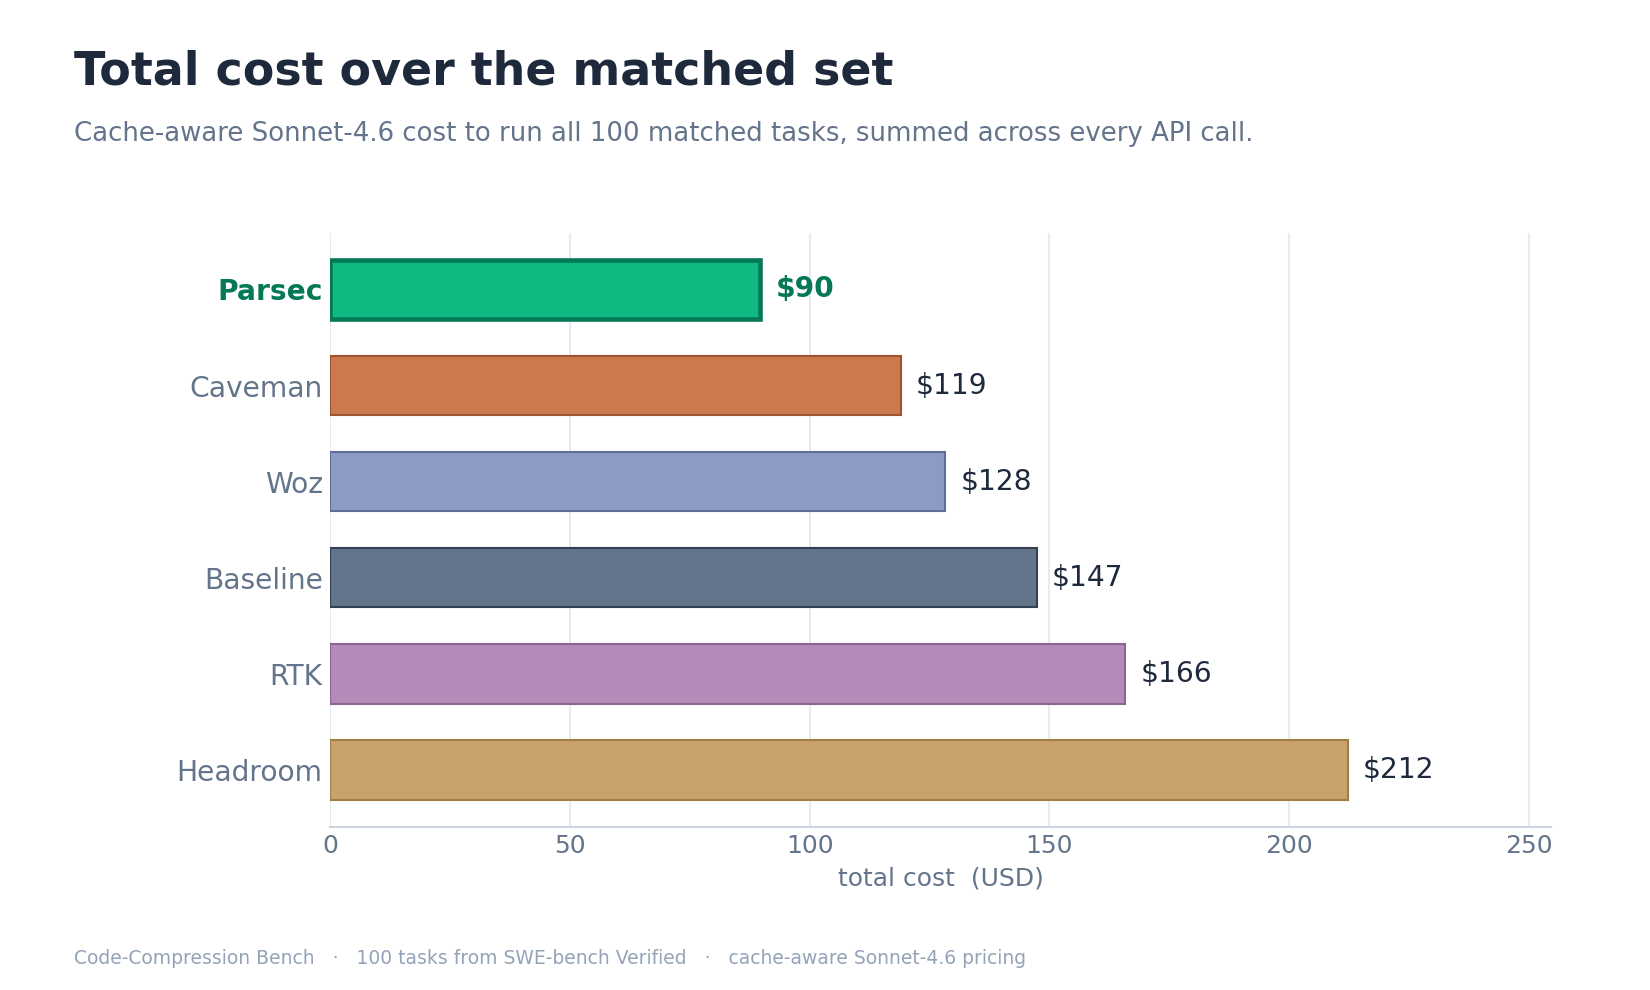
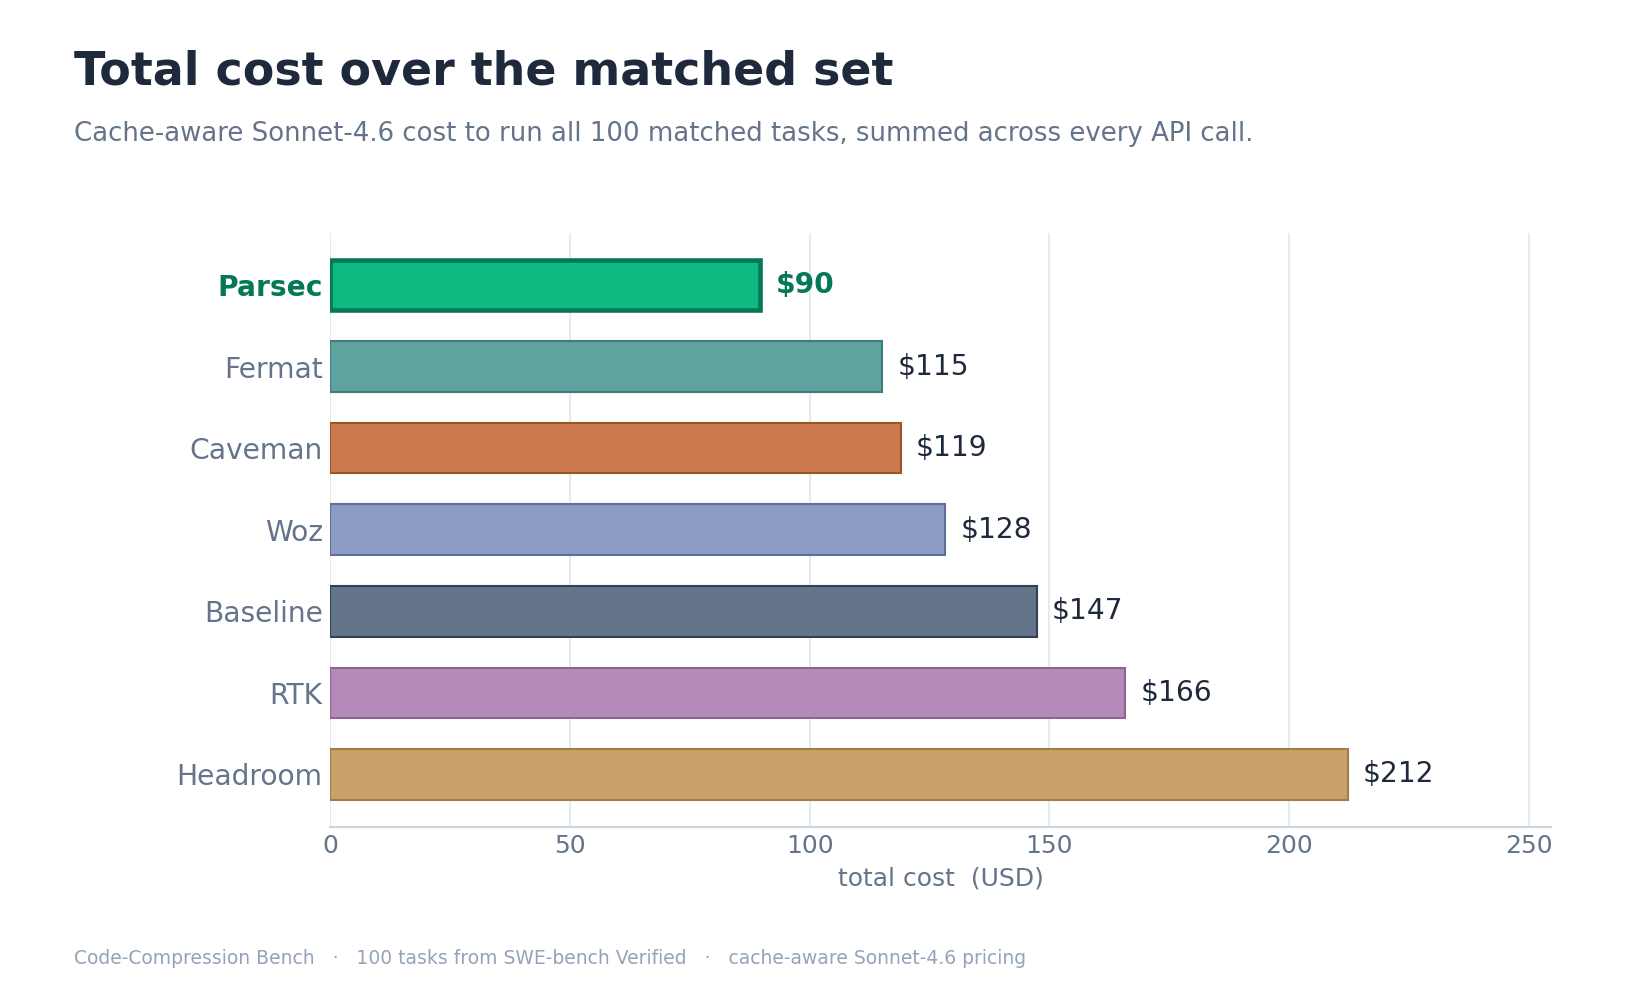
Add Fermat to figure/dashboard generators and regenerate all outputs
Add fermat to build_figures.py (COL/EDGE/LABEL + per-figure arm lists) and
build_dashboard.py (STYLE + arm tuples + FVF mechanism note). Regenerate all 11
PNGs and dashboard.html from summary_rich.json; every figure now shows 7 arms.

Changed region(s): [[0.1236, 0.2727, 0.8655, 0.7879], [0.4636, 0.2727, 0.5255, 0.303], [0.1236, 0.7576, 0.1855, 0.7879]]

diff --git a/results/2026-07-04/dashboard.html b/results/2026-07-04/dashboard.html
@@ -142,6 +142,7 @@
       <tr><td>RTK</td><td class="claim">"60–90% fewer tokens on common dev commands"</td><td class="obs">+13% cost, +16% input, 54/100 solved; its hook rewrites only shell output — native Read/Grep/Glob bypass it</td></tr>
       <tr><td>Headroom</td><td class="claim">"60–95% fewer tokens, same answers"; "better caching"</td><td class="obs">+44% cost, +6% input, 58/100 solved; its docs: "code passes through" uncompressed</td></tr>
       <tr><td>Caveman</td><td class="claim">"Cuts 65% of output tokens (measured)"; "full technical accuracy"</td><td class="obs">−19% cost, −19% input, 58/100 solved; the 65% is output-only — a small share of agentic-loop cost</td></tr>
+      <tr><td>Fermat</td><td class="claim">MCP Search/Edit facades over the codebase (Quotient Labs, “Fermat’s Last Token”)</td><td class="obs">−22% cost, −32% input, 55/100 solved; native Read/Edit/Grep/Glob removed, but the model reads via Bash — so 53 of 170 facade edits are rejected not_in_session</td></tr>
     </tbody>
   </table>
   </div>
@@ -162,6 +163,7 @@ const ARMS = {
   headroom: {label:"Headroom", c:"#c9a26b", e:"#a07f47", solved:58, solve_rate:58, cost_total:212.14, cost_per_solved:3.66, cost_list:908.47, input_m:329.6, output_m:2.95, steps:5850, wall_h:16.29, lat:7.97, ctx_k:76.7, hit:92.4, crcw:11.3, deaths:0, vs_a0_cost_pct:44.0, vs_a0_input_pct:5.6, vs_a0_time_pct:12.9},
   rtk:      {label:"RTK", c:"#b48ab8", e:"#8c6690", solved:54, solve_rate:54, cost_total:165.77, cost_per_solved:3.07, cost_list:1015.00, input_m:360.7, output_m:3.22, steps:6131, wall_h:16.18, lat:9.33, ctx_k:81.6, hit:97.3, crcw:46.4, deaths:2, vs_a0_cost_pct:12.5, vs_a0_input_pct:15.6, vs_a0_time_pct:12.2},
   caveman:  {label:"Caveman", c:"#cc7a4d", e:"#9c552e", solved:58, solve_rate:58, cost_total:118.99, cost_per_solved:2.05, cost_list:733.16, input_m:253.8, output_m:2.11, steps:4895, wall_h:11.98, lat:6.85, ctx_k:70.1, hit:96.6, crcw:40.4, deaths:1, vs_a0_cost_pct:-19.2, vs_a0_input_pct:-18.7, vs_a0_time_pct:-17.0},
+  fermat:   {label:"Fermat", c:"#5fa3a0", e:"#3f7d7a", solved:55, solve_rate:55, cost_total:115.09, cost_per_solved:2.09, cost_list:670.78, input_m:211.5, output_m:2.43, steps:3883, wall_h:12.20, lat:9.95, ctx_k:62.6, hit:97.2, crcw:35.5, deaths:0, vs_a0_cost_pct:-21.9, vs_a0_input_pct:-32.3, vs_a0_time_pct:-15.4},
 };
 const ORDER = ["dasein","A0","woz","headroom","rtk","caveman"];
 const fmtPct = v => (v>0?"+":"")+v.toFixed(0)+"%";

diff --git a/results/2026-07-04/build_figures.py b/results/2026-07-04/build_figures.py
@@ -26,11 +26,11 @@ N = D["matched_n"]
 # ── brand ──────────────────────────────────────────────────────────────────
 HERO = "#10b981"; HERO_DARK = "#047857"; HERO_SOFT = "#d1fae5"
 SLATE = "#64748b"; SLATE_DK = "#334155"
-COL = {"dasein": HERO, "A0": SLATE, "woz": "#8b9bc4", "headroom": "#c9a26b", "rtk": "#b48ab8", "caveman": "#cc7a4d"}
-EDGE = {"dasein": HERO_DARK, "A0": SLATE_DK, "woz": "#5f6f9c", "headroom": "#a07f47", "rtk": "#8c6690", "caveman": "#9c552e"}
+COL = {"dasein": HERO, "A0": SLATE, "woz": "#8b9bc4", "headroom": "#c9a26b", "rtk": "#b48ab8", "caveman": "#cc7a4d", "fermat": "#5fa3a0"}
+EDGE = {"dasein": HERO_DARK, "A0": SLATE_DK, "woz": "#5f6f9c", "headroom": "#a07f47", "rtk": "#8c6690", "caveman": "#9c552e", "fermat": "#3f7d7a"}
 INK = "#1e293b"; INK_SOFT = "#64748b"; GRID = "#e6ebf1"
 BAD = "#d98a8a"; BAD_DK = "#b04a4a"
-LABEL = {"dasein": "Parsec", "A0": "Baseline", "woz": "Woz", "headroom": "Headroom", "rtk": "RTK", "caveman": "Caveman"}
+LABEL = {"dasein": "Parsec", "A0": "Baseline", "woz": "Woz", "headroom": "Headroom", "rtk": "RTK", "caveman": "Caveman", "fermat": "Fermat"}
 
 plt.rcParams.update({
     "font.family": "sans-serif",
@@ -99,7 +99,7 @@ def hbar(fname, title, subtitle, values, fmt, *, better="low", xlabel="",
 
 # ── 1. savings vs baseline (diverging hero) ─────────────────────────────────
 def fig_savings():
-    arms = ["dasein", "woz", "rtk", "headroom", "caveman"]
+    arms = ["dasein", "woz", "rtk", "headroom", "caveman", "fermat"]
     v = {a: A[a]["vs_a0_cost_pct"] for a in arms}
     items = sorted(v.items(), key=lambda kv: kv[1])  # most negative (best) first
     arms = [a for a, _ in items]; vals = [x for _, x in items]
@@ -144,7 +144,7 @@ def fig_savings():
 # ── 1b. solves relative to baseline (companion to fig_savings) ───────────────
 def fig_solves():
     base = A["A0"]["solved"]
-    arms = ["dasein", "woz", "rtk", "headroom", "caveman"]
+    arms = ["dasein", "woz", "rtk", "headroom", "caveman", "fermat"]
     v = {a: A[a]["solved"] - base for a in arms}
     items = sorted(v.items(), key=lambda kv: kv[1], reverse=True)  # most solves gained first
     arms = [a for a, _ in items]; vals = [x for _, x in items]
@@ -288,7 +288,7 @@ def fig_scatter():
 
 # ── 9. cache health ─────────────────────────────────────────────────────────
 def fig_cache():
-    arms = ["A0", "dasein", "woz", "headroom", "rtk", "caveman"]
+    arms = ["A0", "dasein", "woz", "headroom", "rtk", "caveman", "fermat"]
     v = {a: A[a]["cr_cw"] for a in arms}
     fig = plt.figure(figsize=(11.4, 6.6))
     ax = fig.add_axes([0.10, 0.16, 0.86, 0.585])

diff --git a/results/2026-07-04/build_dashboard.py b/results/2026-07-04/build_dashboard.py
@@ -14,11 +14,12 @@ html = open(P).read()
 STYLE = {"dasein": ('Parsec', "#10b981", "#047857"), "A0": ('Baseline', "#64748b", "#334155"),
          "woz": ('Woz', "#8b9bc4", "#5f6f9c"), "headroom": ('Headroom', "#c9a26b", "#a07f47"),
          "rtk": ('RTK', "#b48ab8", "#8c6690"),
-         "caveman": ('Caveman', "#cc7a4d", "#9c552e")}
+         "caveman": ('Caveman', "#cc7a4d", "#9c552e"),
+         "fermat": ('Fermat', "#5fa3a0", "#3f7d7a")}
 
 # ── 1. ARMS data block ──────────────────────────────────────────────────────
 lines = ["const ARMS = {"]
-for k in ("dasein", "A0", "woz", "headroom", "rtk", "caveman"):
+for k in ("dasein", "A0", "woz", "headroom", "rtk", "caveman", "fermat"):
     lab, c, e = STYLE[k]; v = A[k]
     lines.append(
         '  %s:%s{label:"%s", c:"%s", e:"%s", solved:%d, solve_rate:%d, cost_total:%.2f, '
@@ -48,9 +49,11 @@ FVF = {
                  'its docs: "code passes through" uncompressed'),
     "caveman": ('"Cuts 65% of output tokens (measured)"; "full technical accuracy"',
                 'the 65% is output-only — a small share of agentic-loop cost'),
+    "fermat": ('MCP Search/Edit facades over the codebase (Quotient Labs, “Fermat’s Last Token”)',
+               'native Read/Edit/Grep/Glob removed, but the model reads via Bash — so 53 of 170 facade edits are rejected not_in_session'),
 }
 rows = []
-for k in ("dasein", "woz", "rtk", "headroom", "caveman"):
+for k in ("dasein", "woz", "rtk", "headroom", "caveman", "fermat"):
     v = A[k]; claim, note = FVF[k]
     obs = "%s cost, %s input, %d/100 solved" % (pct(v["vs_a0_cost_pct"]), pct(v["vs_a0_input_pct"]), int(v["solved"]))
     if note:
@@ -71,6 +74,6 @@ html = html.replace("both versus the no-compression baseline; the top-right corn
 open(P, "w").write(html)
 # report
 print("dashboard regenerated. FVF observed column now:")
-for k in ("dasein", "woz", "rtk", "headroom", "caveman"):
+for k in ("dasein", "woz", "rtk", "headroom", "caveman", "fermat"):
     v = A[k]
     print("  %-9s %s cost, %s input, %d/100" % (STYLE[k][0], pct(v["vs_a0_cost_pct"]), pct(v["vs_a0_input_pct"]), int(v["solved"])))
